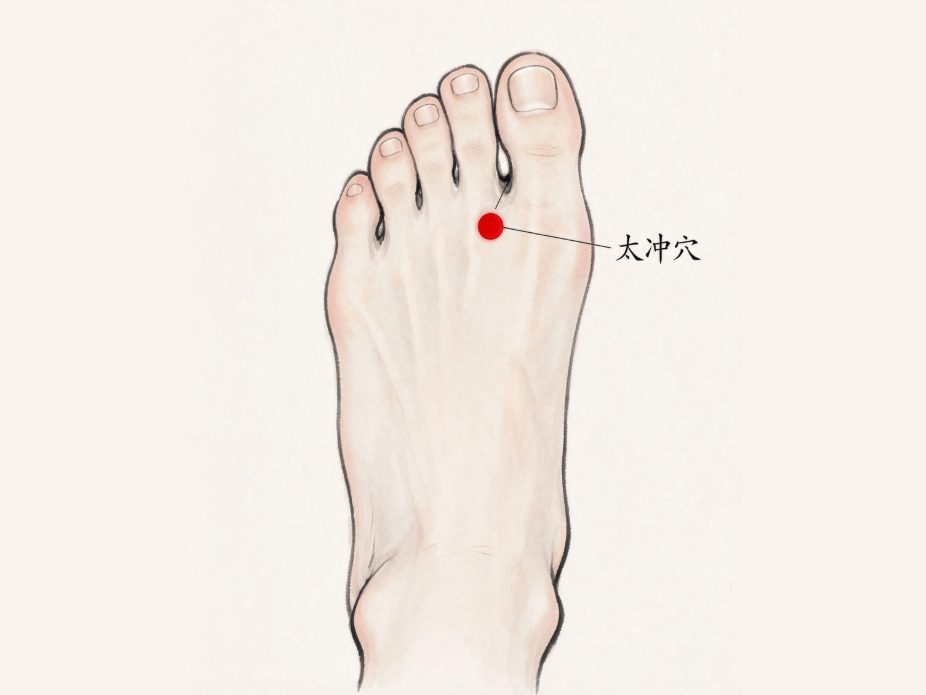
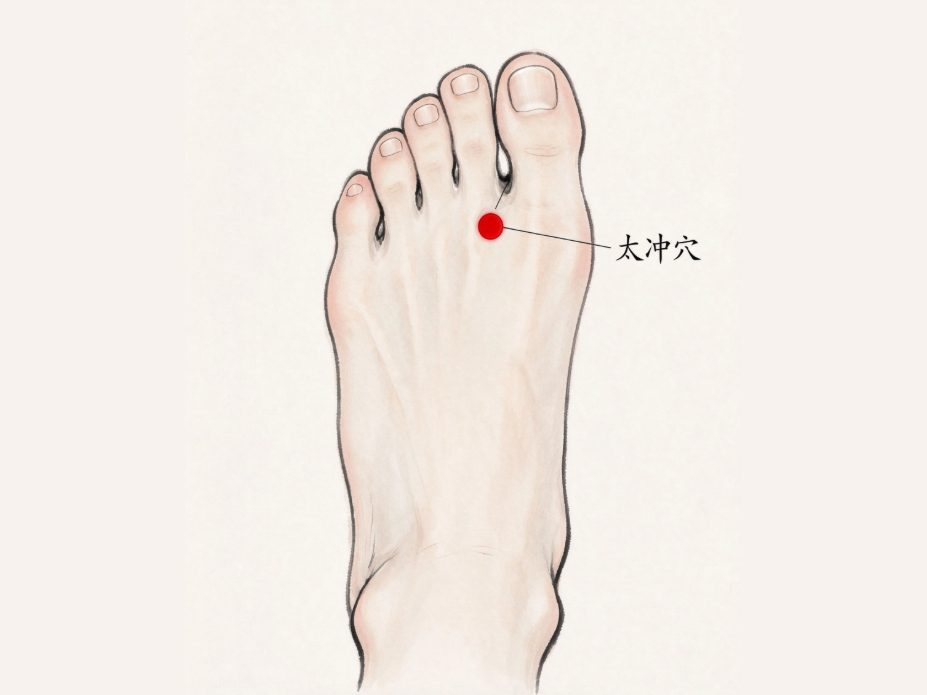
feat(content): 补全素材库缺失条目——运动功法补 9 个偏颇体质、经络补 7 个穴位配图；成套功法补官方整套视频直链

diff --git a/说明.md b/说明.md
@@ -21,11 +21,11 @@
 │   ├─ wechat.py               微信扫码登录（未配置时自动跳过）
 │   ├─ db.py / db_local.py     MySQL 版 / SQLite 版本地版（本地版走 SQLite）
 │   ├─ seed.py / migrate.py    初始化演示数据与升级表结构
-│   ├─ images/                 内容配图（运动功法 9 张、经络 1 张，可自行增删）
+│   ├─ images/                 内容配图（运动功法 9 张、经络 8 张，可自行增删）
 │   └─ requirements.txt        Python 依赖
 │
 └─ 数据库/                    【数据库】
-    ├─ local.db                SQLite 数据库（28 张表，已含全部内容与 51 条视频链接）
+    ├─ local.db                SQLite 数据库（28 张表，已含全部内容与 59 条视频链接）
     └─ seed.json               演示数据源文件
 ```
 
@@ -82,9 +82,9 @@ python -m uvicorn app:app --host 0.0.0.0 --port 8001
 ## 五、内容与视频链接存在哪
 
 1. **正文与视频链接存在数据库里**（从原 MySQL 库迁入）：
-   - `content_items` 125 条内容条目
-   - `content_sections` 482 段正文
-   - `content_links` 159 条外链，其中 **51 条视频**（详情页「权威参考 → 📹 演示视频」就是它）
+   - `content_items` 141 条内容条目（饮食 76 / 运动功法 26 / 经络穴位 19 / 情志睡眠 20）
+   - `content_sections` 546 段正文
+   - `content_links` 185 条外链，其中 **59 条视频**（详情页「权威参考 → 📹 演示视频」就是它）
 2. 想加/改链接：在 `数据库/local.db` 的 `content_links` 表里改即可，`kind` 填 `video` 或 `article`，
    `item_id` 对应 `content_items.id`，重启后端生效。
 3. 前端页面里也内置了一份内容，只作为「后端没启动」时的兜底，后端连上后以数据库为准。
